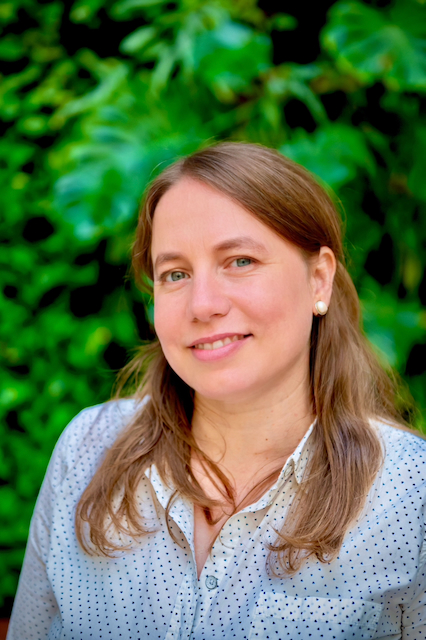
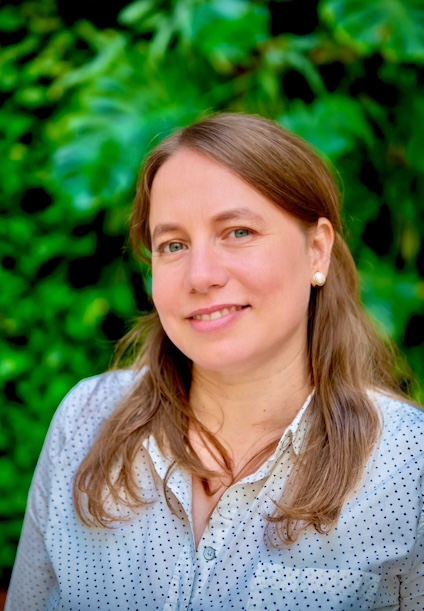
bug fixes

diff --git a/content/about/sidebar/index.md b/content/about/sidebar/index.md
@@ -1,18 +1,14 @@
 ---
 author: "Melanie Oyarzun"
-role: "Postdoctoral Fellow · [CCL](https://centerforcollectivelearning.org) · Collaborator @ [CRISS Lab](https://criss-lab.com/)"
+role: "Postdoctoral Fellow<br>[Center for Collective Learning](https://centerforcollectivelearning.org) · Corvinus University<br>Collaborator · [CRISS Lab](https://criss-lab.com/) · UDD Chile"
 avatar_shape: circle
 show_social_links: true
-link_list_label: Quick links
+link_list_label: Links
 link_list:
-  - name: Teaching & Media
-    url: /teaching/
-  - name: Educational YouTube
-    url: https://www.youtube.com/@MelanieOyarzun
-  - name: Download CV
-    url: /files/CV_MOW_March2026.pdf
   - name: Google Scholar
     url: https://scholar.google.cl/citations?user=5-t0IgkAAAAJ&hl=es
+  - name: LinkedIn
+    url: https://www.linkedin.com/in/melanie-oyarz%C3%BAn-wolf-73789723
   - name: Email me
     url: mailto:melanie.oyarzun@gmail.com
 ---

diff --git a/content/about/main/index.md b/content/about/main/index.md
@@ -24,6 +24,8 @@ intro: |
   <hr>
 
   **Want to see what I've been working on?** Head to [Research →](/published/)
+
+  <div class="mt4 pt3 bt b--black-10"><p style="font-size:0.75rem;font-weight:700;text-transform:uppercase;letter-spacing:0.08em;color:#107685;margin-bottom:0.6rem;">On Twitter / X</p><a class="twitter-timeline" data-tweet-limit="3" data-chrome="noheader nofooter noborders transparent" data-dnt="true" href="https://twitter.com/mel2kill">Tweets by @mel2kill</a><script async src="https://platform.twitter.com/widgets.js" charset="utf-8"></script></div>
 show_outro: false
 outro:
 ---

diff --git a/content/_index.md b/content/_index.md
@@ -17,3 +17,4 @@ type: home
 
 ** index doesn't contain a body, just front matter above.
 See index.html in the layouts folder **
+
